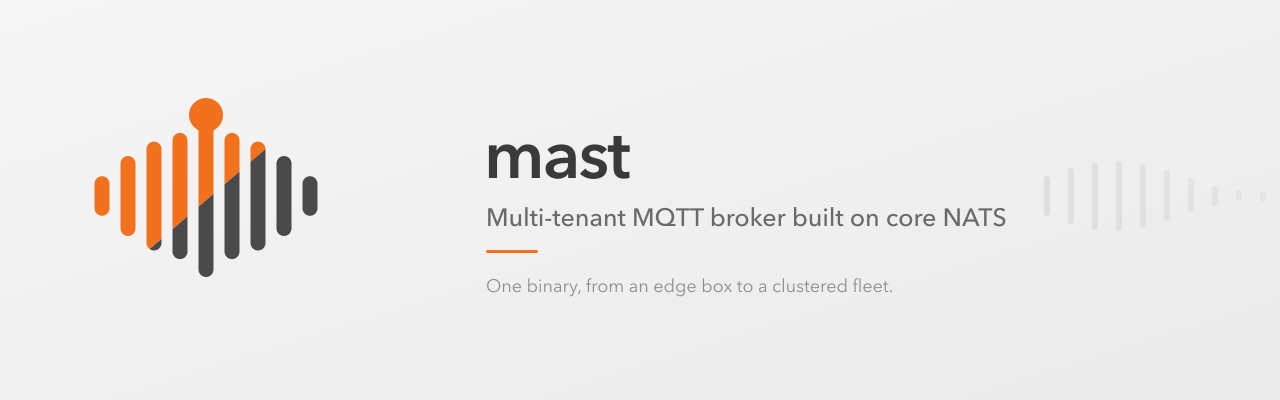
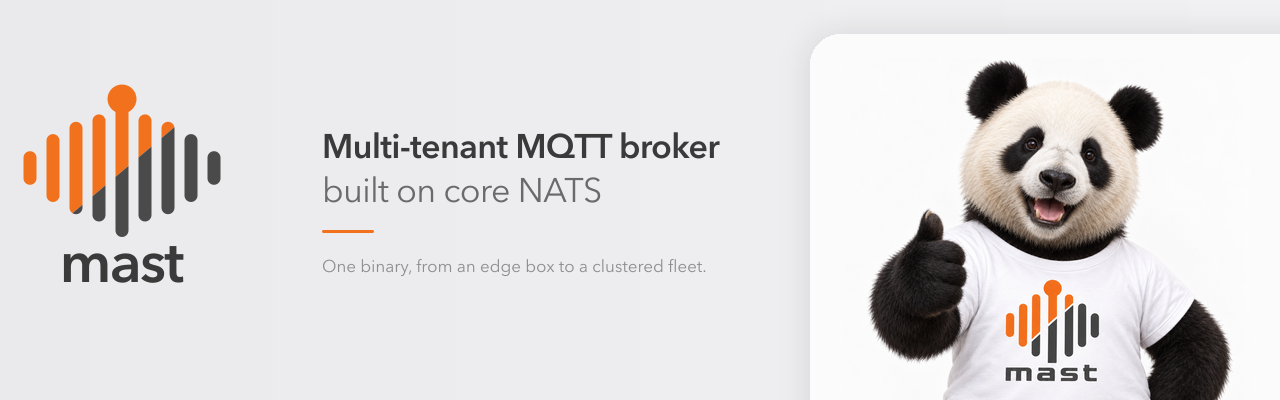
feat: a masthead with the mascot, and three layout bugs it uncovered
The page led with banner.png stretched across the column. That is an image
of text: soft at 860px, unable to reflow on a phone, unselectable, and
invisible to a screen reader beyond its alt. The masthead is now live HTML
in the banner's own language — the mark drawn as SVG, the wordmark and pitch
as text, the mascot beside them on a panel painted in its own backdrop
colour so the photograph joins it without a seam. The banner PNG stays as
the og:image, which is the one place an image of text is the right answer.

Three bugs surfaced while laying it out, all of them older than this change:

  - Section had no vertical padding at all. Section.astro renders <section
    class="wrap">, and .wrap's `padding: 0 16px` shorthand was zeroing the
    `section { padding: 40px 0 }` underneath it, a class quietly beating an
    element selector. .wrap now sets padding-inline, so the two rules stop
    overlapping.
  - Both cells of the mast row in the comparison table carried .yes, whose
    white-space: nowrap stretched the table past the viewport and gave the
    whole page a horizontal scrollbar. Only the broker name needs it.
  - A JSX line break between "The" and the parity-label link dropped the
    space between them.

The masthead and the sections below it also now share one container width,
which they did not when the hero was 1120px and the prose 860px.

Claude-Session: https://claude.ai/code/session_01CribtUZAUCnaabjApoTY9d

Changed region(s): [[0.0, 0.15, 0.9688, 1.0], [0.375, 0.6, 0.4062, 0.63]]

diff --git a/docs/index.html b/docs/index.html
@@ -1,5 +1,4 @@
-<!DOCTYPE html><html lang="en"><head><meta charset="utf-8"><meta name="viewport" content="width=device-width, initial-scale=1"><title>mast — multi-tenant MQTT broker on core NATS</title><meta name="description" content="An open-source multi-tenant MQTT broker built on core NATS. MQTT 5, shared subscriptions, tenant isolation, free clustering, no JVM, one binary."><link rel="icon" href="/assets/mark.png"><link rel="canonical" href="https://mastmq.github.io/"><meta property="og:title" content="mast — multi-tenant MQTT broker on core NATS"><meta property="og:description" content="An open-source multi-tenant MQTT broker built on core NATS. MQTT 5, shared subscriptions, tenant isolation, free clustering, no JVM, one binary."><meta property="og:image" content="https://mastmq.github.io/assets/banner.png"><meta property="og:url" content="https://mastmq.github.io/"><meta property="og:type" content="website"><meta name="twitter:card" content="summary_large_image"><style>:root{--orange:#f2711c;--charcoal:#4a4a4a;--ground:#f4f4f4;--ink:#1d1d1d;--muted:#5f5f5f;--rule:#e2e2e2;--card:#fff;--code-bg:#f7f7f7}:root:not([data-theme=light]){@media (prefers-color-scheme:dark){--ground:#17181a;--ink:#ececec;--muted:#a3a3a3;--rule:#2e3033;--card:#1e2023;--charcoal:#c9c9c9;--code-bg:#131416}}:root[data-theme=dark]{--ground:#17181a;--ink:#ececec;--muted:#a3a3a3;--rule:#2e3033;--card:#1e2023;--charcoal:#c9c9c9;--code-bg:#131416}*{box-sizing:border-box}body{background:var(--ground);color:var(--ink);-webkit-font-smoothing:antialiased;margin:0;font:16px/1.65 ui-sans-serif,system-ui,-apple-system,Segoe UI,Roboto,sans-serif}.wrap{max-width:860px;margin:0 auto;padding:0 16px}a{color:var(--orange);text-decoration:none}a:hover{text-decoration:underline}header{padding:64px 0 40px}.banner{border-radius:14px;width:100%;height:auto;margin-bottom:28px;display:block}.section-head{flex-wrap:wrap;align-items:baseline;gap:12px;display:flex}h1{letter-spacing:-.02em;margin:0 0 12px;font-size:clamp(2.2rem,6vw,3.2rem);line-height:1.05}.tagline{color:var(--muted);margin:0 0 24px;font-size:1.15rem}.badges{flex-wrap:wrap;gap:8px;margin-bottom:20px;display:flex}.badge{border:1px solid var(--rule);color:var(--muted);background:var(--card);border-radius:999px;padding:3px 10px;font-size:.78rem}.cta{flex-wrap:wrap;gap:12px;display:flex}.btn{border:1px solid var(--orange);border-radius:8px;padding:10px 18px;font-weight:600;display:inline-block}.btn-primary{background:var(--orange);color:#fff}.btn-primary:hover{filter:brightness(1.07);text-decoration:none}.btn-ghost{color:var(--orange);background:0 0}.btn-ghost:hover{background:color-mix(in srgb, var(--orange) 10%, transparent);text-decoration:none}section{border-top:1px solid var(--rule);padding:40px 0}h2{letter-spacing:-.01em;margin:0 0 8px;font-size:1.45rem}.lede{color:var(--muted);margin:0 0 24px}pre{background:var(--code-bg);border:1px solid var(--rule);border-radius:10px;padding:16px;font-size:.88rem;line-height:1.55;overflow-x:auto}code{font-family:ui-monospace,SFMono-Regular,Menlo,monospace}pre .c{color:var(--muted)}table{border-collapse:collapse;width:100%;font-size:.93rem}th,td{text-align:left;border-bottom:1px solid var(--rule);vertical-align:top;padding:10px 12px}th{color:var(--muted);text-transform:uppercase;letter-spacing:.04em;font-size:.82rem;font-weight:600}td.yes{color:var(--orange);font-weight:600}.cards{grid-template-columns:repeat(auto-fit,minmax(240px,1fr));gap:16px;display:grid}.card{background:var(--card);border:1px solid var(--rule);border-radius:12px;padding:18px 20px}.card h3{margin:0 0 6px;font-size:1rem}.card p{color:var(--muted);margin:0;font-size:.92rem}.note{border-left:3px solid var(--orange);color:var(--muted);margin:20px 0 0;padding:2px 0 2px 16px}footer{border-top:1px solid var(--rule);color:var(--muted);padding:40px 0 64px;font-size:.9rem}footer a{color:var(--muted);text-decoration:underline}@media (width<=560px){header{padding:40px 0 28px}.hero img{width:120px}.table-scroll{overflow-x:auto}}
-</style></head><body><header><div class="wrap"><picture><source media="(prefers-color-scheme: dark)" srcset="/assets/banner.png"><img class="banner" src="/assets/banner-light.png" alt="mast — multi-tenant mqtt broker built on core nats" width="1280" height="400"></picture><div class="badges"><span class="badge">MQTT 3.1.1 &amp; 5.0</span><span class="badge">Shared subscriptions</span><span class="badge">Apache 2.0</span><span class="badge">No JVM</span></div><div class="cta"><a class="btn btn-primary" href="https://github.com/mastmq/mast">Source</a><a class="btn btn-ghost" href="https://github.com/mastmq/docs/blob/main/guides/migrating-from-emqx.md">Migrating from EMQX</a></div></div></header><main><section class="wrap"><h2>Why it exists</h2><p class="lede">Every open-source MQTT broker that does real multi-tenancy makes you give something up.</p><div class="table-scroll"><table><thead><tr><th>Broker</th><th>The catch</th></tr></thead><tbody><tr><td>EMQX</td><td>Business Source License since 5.9 — clustering more than one node needs a paid licence key.</td></tr><tr><td>BifroMQ</td><td>Genuine native multi-tenancy, but it runs on the JVM.</td></tr><tr><td>VerneMQ</td><td>Apache 2.0 source, but the official packages and images are under a EULA that charges for commercial use.</td></tr><tr><td>RabbitMQ</td><td>vhosts, but no QoS 2 and no shared subscriptions.</td></tr><tr><td>Mosquitto, NanoMQ, FlashMQ, mochi</td><td>Do not cluster at all.</td></tr><tr><td class="yes">mast</td><td class="yes">MQTT 5 with shared subscriptions, tenant isolation with per-tenant limits, free clustering, no JVM, and a single binary you can run standalone at a customer site.</td></tr></tbody></table></div></section><section class="wrap"><h2>Run it</h2><p class="lede">No flags needed for the common case. The roles exist for when you outgrow it.</p><pre><code><span class="c"># all-in-one: MQTT and storage in one process, no cluster</span>
+<!DOCTYPE html><html lang="en"><head><meta charset="utf-8"><meta name="viewport" content="width=device-width, initial-scale=1"><title>mast — multi-tenant MQTT broker on core NATS</title><meta name="description" content="An open-source multi-tenant MQTT broker built on core NATS. MQTT 5, shared subscriptions, tenant isolation, free clustering, no JVM, one binary."><meta name="theme-color" content="#17181a"><link rel="icon" href="/assets/mark.png"><link rel="canonical" href="https://mastmq.github.io/"><meta property="og:title" content="mast — multi-tenant MQTT broker on core NATS"><meta property="og:description" content="An open-source multi-tenant MQTT broker built on core NATS. MQTT 5, shared subscriptions, tenant isolation, free clustering, no JVM, one binary."><meta property="og:image" content="https://mastmq.github.io/assets/banner.png"><meta property="og:url" content="https://mastmq.github.io/"><meta property="og:type" content="website"><meta name="twitter:card" content="summary_large_image"><link rel="stylesheet" href="/_astro/index.eMWIsspo.css"></head><body><header class="hero"><div class="hero-glow" aria-hidden="true"></div><nav class="hero-nav wrap-wide"><a class="hero-nav-brand" href="/"><svg viewBox="0 0 197 162" width="34" height="27.95939086294416" role="img" aria-label="mast" class="mark"><defs><clipPath id="nav-hot"><polygon points="-28,198 233,-22 233,-220 -28,-220"></polygon></clipPath><clipPath id="nav-cool"><polygon points="-28,198 233,-22 233,380 -28,380"></polygon></clipPath><g id="nav-bars"><rect x="0" y="71.19999999999999" width="13" height="33.60000000000001" rx="6.5"></rect><rect x="23" y="54.05" width="13" height="67.9" rx="6.5"></rect><rect x="46" y="41.800000000000004" width="13" height="92.39999999999999" rx="6.5"></rect><rect x="69" y="34.449999999999996" width="13" height="107.10000000000001" rx="6.5"></rect><rect x="92" y="19" width="13" height="138" rx="6.5"></rect><rect x="115" y="34.449999999999996" width="13" height="107.10000000000001" rx="6.5"></rect><rect x="138" y="41.800000000000004" width="13" height="92.39999999999999" rx="6.5"></rect><rect x="161" y="54.05" width="13" height="67.9" rx="6.5"></rect><rect x="184" y="71.19999999999999" width="13" height="33.60000000000001" rx="6.5"></rect></g></defs><use href="#nav-bars" clip-path="url(#nav-hot)" class="mark-hot"></use><use href="#nav-bars" clip-path="url(#nav-cool)" class="mark-cool"></use><circle cx="98.5" cy="19" r="14.5" class="mark-hot"></circle></svg><span>mast</span></a><div class="hero-nav-links"><a href="https://github.com/mastmq/docs/blob/main/guides/migrating-from-emqx.md">Migrating from EMQX</a><a href="https://github.com/mastmq">Organization</a><a href="https://github.com/mastmq/mast">GitHub</a></div></nav><div class="hero-body wrap-wide"><div class="hero-text"><svg viewBox="0 0 197 162" width="128" height="105.25888324873097" role="img" aria-label="mast" class="mark"><defs><clipPath id="hero-hot"><polygon points="-28,198 233,-22 233,-220 -28,-220"></polygon></clipPath><clipPath id="hero-cool"><polygon points="-28,198 233,-22 233,380 -28,380"></polygon></clipPath><g id="hero-bars"><rect x="0" y="71.19999999999999" width="13" height="33.60000000000001" rx="6.5"></rect><rect x="23" y="54.05" width="13" height="67.9" rx="6.5"></rect><rect x="46" y="41.800000000000004" width="13" height="92.39999999999999" rx="6.5"></rect><rect x="69" y="34.449999999999996" width="13" height="107.10000000000001" rx="6.5"></rect><rect x="92" y="19" width="13" height="138" rx="6.5"></rect><rect x="115" y="34.449999999999996" width="13" height="107.10000000000001" rx="6.5"></rect><rect x="138" y="41.800000000000004" width="13" height="92.39999999999999" rx="6.5"></rect><rect x="161" y="54.05" width="13" height="67.9" rx="6.5"></rect><rect x="184" y="71.19999999999999" width="13" height="33.60000000000001" rx="6.5"></rect></g></defs><use href="#hero-bars" clip-path="url(#hero-hot)" class="mark-hot"></use><use href="#hero-bars" clip-path="url(#hero-cool)" class="mark-cool"></use><circle cx="98.5" cy="19" r="14.5" class="mark-hot"></circle></svg><h1>mast</h1><p class="hero-tagline">Multi-tenant MQTT broker built on core NATS</p><p class="hero-blurb">One binary, from an edge box to a clustered fleet.</p><div class="badges"><span class="badge">MQTT 3.1.1 &amp; 5.0</span><span class="badge">Shared subscriptions</span><span class="badge">Apache 2.0</span><span class="badge">No JVM</span></div><div class="cta"><a class="btn btn-primary" href="https://github.com/mastmq/mast">Source</a><a class="btn btn-ghost" href="https://github.com/mastmq/docs/blob/main/guides/migrating-from-emqx.md">Migrating from EMQX</a></div></div><div class="hero-mascot" aria-hidden="true"><img src="/assets/mascot.png" alt="" width="1254" height="1254" loading="eager"></div></div></header><main><section class="wrap"><h2>Why it exists</h2><p class="lede">Every open-source MQTT broker that does real multi-tenancy makes you give something up.</p><div class="table-scroll"><table><thead><tr><th>Broker</th><th>The catch</th></tr></thead><tbody><tr><td>EMQX</td><td>Business Source License since 5.9 — clustering more than one node needs a paid licence key.</td></tr><tr><td>BifroMQ</td><td>Genuine native multi-tenancy, but it runs on the JVM.</td></tr><tr><td>VerneMQ</td><td>Apache 2.0 source, but the official packages and images are under a EULA that charges for commercial use.</td></tr><tr><td>RabbitMQ</td><td>vhosts, but no QoS 2 and no shared subscriptions.</td></tr><tr><td>Mosquitto, NanoMQ, FlashMQ, mochi</td><td>Do not cluster at all.</td></tr><tr class="mast-row"><td class="yes">mast</td><td>MQTT 5 with shared subscriptions, tenant isolation with per-tenant limits, free clustering, no JVM, and a single binary you can run standalone at a customer site.</td></tr></tbody></table></div></section><section class="wrap"><h2>Run it</h2><p class="lede">No flags needed for the common case. The roles exist for when you outgrow it.</p><pre><code><span class="c"># all-in-one: MQTT and storage in one process, no cluster</span>
 mast
 
 <span class="c"># or split the tiers once the MQTT side needs to scale</span>
@@ -14,4 +13,4 @@ wire = "emqx"          <span class="c"># EMQX's request and response shape</span
 authn_url = "http://soteria:9999/v2/auth"
 authz_url = "http://soteria:9999/v2/acl"
 on_error = "deny"      <span class="c"># EMQX_AUTHORIZATION__NO_MATCH</span>
-</code></pre><p class="note">Topics reach the authorization endpoint unmounted, so existing ACL rules keep working. The <a href="https://github.com/mastmq/docs/blob/main/guides/migrating-from-emqx.md">migration guide</a> has the full mapping and the four traps that actually fired doing it — <code>is_superuser</code>, multipath TCP on OpenShift, Helm's map merging, and SCC uid ranges.</p></section><section class="wrap"><h2>Where the project is</h2><p class="lede">Early, and honest about it. The broker runs, moves messages across a cluster with tenant isolation, honours QoS 0 through 2, replays retained messages, resumes persistent sessions and delivers wills.</p><p>Gaps are tracked as issues rather than described as a roadmap. The<a href="https://github.com/mastmq/mast/issues?q=is%3Aissue+is%3Aopen+label%3Aparity">parity label</a> is what an MQTT client is entitled to assume and does not yet get. There is no dashboard and no management API, and no plan for a rule engine or data bridges.</p><div class="cards" style="margin-top:20px"><div class="card"><h3><a href="https://github.com/mastmq/mast">mast</a></h3><p>The broker.</p></div><div class="card"><h3><a href="https://github.com/mastmq/charts">charts</a></h3><p>Helm charts.</p></div><div class="card"><h3><a href="https://github.com/mastmq/docs">docs</a></h3><p>Architecture notes and operational guides.</p></div><div class="card"><h3><a href="https://github.com/mastmq/bench">bench</a></h3><p>Load and latency benchmarks.</p></div></div></section></main><footer><div class="wrap">Apache 2.0 &middot; <a href="https://github.com/mastmq">github.com/mastmq</a></div></footer></body></html>
+</code></pre><p class="note">Topics reach the authorization endpoint unmounted, so existing ACL rules keep working. The <a href="https://github.com/mastmq/docs/blob/main/guides/migrating-from-emqx.md">migration guide</a> has the full mapping and the four traps that actually fired doing it — <code>is_superuser</code>, multipath TCP on OpenShift, Helm's map merging, and SCC uid ranges.</p></section><section class="wrap"><h2>Where the project is</h2><p class="lede">Early, and honest about it. The broker runs, moves messages across a cluster with tenant isolation, honours QoS 0 through 2, replays retained messages, resumes persistent sessions and delivers wills.</p><p>Gaps are tracked as issues rather than described as a roadmap. The <a href="https://github.com/mastmq/mast/issues?q=is%3Aissue+is%3Aopen+label%3Aparity">parity label</a> is what an MQTT client is entitled to assume and does not yet get. There is no dashboard and no management API, and no plan for a rule engine or data bridges.</p><div class="cards" style="margin-top:20px"><div class="card"><h3><a href="https://github.com/mastmq/mast">mast</a></h3><p>The broker.</p></div><div class="card"><h3><a href="https://github.com/mastmq/charts">charts</a></h3><p>Helm charts.</p></div><div class="card"><h3><a href="https://github.com/mastmq/docs">docs</a></h3><p>Architecture notes and operational guides.</p></div><div class="card"><h3><a href="https://github.com/mastmq/bench">bench</a></h3><p>Load and latency benchmarks.</p></div></div></section></main><footer><div class="wrap-wide footer-row"><a class="footer-brand" href="/"><svg viewBox="0 0 197 162" width="30" height="24.670050761421322" role="img" aria-label="mast" class="mark"><defs><clipPath id="foot-hot"><polygon points="-28,198 233,-22 233,-220 -28,-220"></polygon></clipPath><clipPath id="foot-cool"><polygon points="-28,198 233,-22 233,380 -28,380"></polygon></clipPath><g id="foot-bars"><rect x="0" y="71.19999999999999" width="13" height="33.60000000000001" rx="6.5"></rect><rect x="23" y="54.05" width="13" height="67.9" rx="6.5"></rect><rect x="46" y="41.800000000000004" width="13" height="92.39999999999999" rx="6.5"></rect><rect x="69" y="34.449999999999996" width="13" height="107.10000000000001" rx="6.5"></rect><rect x="92" y="19" width="13" height="138" rx="6.5"></rect><rect x="115" y="34.449999999999996" width="13" height="107.10000000000001" rx="6.5"></rect><rect x="138" y="41.800000000000004" width="13" height="92.39999999999999" rx="6.5"></rect><rect x="161" y="54.05" width="13" height="67.9" rx="6.5"></rect><rect x="184" y="71.19999999999999" width="13" height="33.60000000000001" rx="6.5"></rect></g></defs><use href="#foot-bars" clip-path="url(#foot-hot)" class="mark-hot"></use><use href="#foot-bars" clip-path="url(#foot-cool)" class="mark-cool"></use><circle cx="98.5" cy="19" r="14.5" class="mark-hot"></circle></svg><span>mast</span></a><div class="footer-links"><a href="https://github.com/mastmq/mast">mast</a><a href="https://github.com/mastmq/charts">charts</a><a href="https://github.com/mastmq/docs">docs</a><a href="https://github.com/mastmq/bench">bench</a><a href="https://github.com/mastmq">Organization</a></div><div>Apache 2.0</div></div></footer></body></html>

diff --git a/src/styles/global.css b/src/styles/global.css
@@ -9,6 +9,16 @@
   --rule: #e2e2e2;
   --card: #ffffff;
   --code-bg: #f7f7f7;
+
+  /* The masthead is dark under both schemes, so its colours are fixed
+     rather than themed. The mascot's own backdrop, measured from the file,
+     is what the panel behind it is painted with. */
+  --hero-from: #26272b;
+  --hero-to: #141517;
+  --hero-ink: #ffffff;
+  --hero-muted: #c9cbd0;
+  --hero-faint: #8a8d93;
+  --hero-panel: #fbfbfb;
 }
 
 :root:not([data-theme="light"]) {
@@ -43,71 +53,195 @@ body {
   -webkit-font-smoothing: antialiased;
 }
 
-.wrap { max-width: 860px; margin: 0 auto; padding: 0 16px; }
+/* One container width for the whole page. The masthead and the sections
+   under it share a left edge, which they did not when the hero was wider
+   than the prose column. Prose is kept readable by a max-width on the text
+   itself; tables and card grids are free to use the full width. */
+/* padding-inline, not the padding shorthand: Section renders <section
+   class="wrap">, and a shorthand here silently zeroed the section's own
+   vertical padding, which is a class beating an element selector. */
+.wrap, .wrap-wide { max-width: 1060px; margin-inline: auto; padding-inline: 24px; }
 
 a { color: var(--orange); text-decoration: none; }
 a:hover { text-decoration: underline; }
 
-header { padding: 64px 0 40px; }
+/* The mark takes its two tones from whatever it sits on. */
+.mark-hot { fill: var(--orange); }
+.mark-cool { fill: var(--charcoal); }
+.hero .mark-cool { fill: #e8e9ec; }
 
-.banner { width: 100%; height: auto; border-radius: 14px; display: block; margin-bottom: 28px; }
-.section-head { display: flex; align-items: baseline; gap: 12px; flex-wrap: wrap; }
+/* ── Masthead ───────────────────────────────────────────────────────── */
 
-h1 {
-  font-size: clamp(2.2rem, 6vw, 3.2rem);
-  line-height: 1.05;
-  margin: 0 0 12px;
-  letter-spacing: -0.02em;
+.hero {
+  position: relative;
+  overflow: hidden;
+  background: linear-gradient(100deg, var(--hero-from), var(--hero-to));
+  color: var(--hero-ink);
+  isolation: isolate;
 }
 
-.tagline { font-size: 1.15rem; color: var(--muted); margin: 0 0 24px; }
+.hero-glow {
+  position: absolute;
+  left: -8%;
+  top: -22%;
+  width: 46rem;
+  height: 40rem;
+  background: radial-gradient(closest-side, rgb(242 113 28 / 0.22), transparent);
+  pointer-events: none;
+  z-index: -1;
+}
 
-.badges { display: flex; gap: 8px; flex-wrap: wrap; margin-bottom: 20px; }
+.hero-nav {
+  display: flex;
+  align-items: center;
+  justify-content: space-between;
+  gap: 16px;
+  padding-top: 20px;
+  padding-bottom: 4px;
+  flex-wrap: wrap;
+}
+
+.hero-nav-brand {
+  display: inline-flex;
+  align-items: center;
+  gap: 9px;
+  color: var(--hero-ink);
+  font-weight: 600;
+  letter-spacing: -0.02em;
+  font-size: 1.05rem;
+}
+.hero-nav-brand:hover { text-decoration: none; }
+
+.hero-nav-links { display: flex; gap: 22px; flex-wrap: wrap; font-size: 0.92rem; }
+.hero-nav-links a { color: var(--hero-muted); }
+.hero-nav-links a:hover { color: var(--hero-ink); text-decoration: none; }
+
+.hero-body {
+  display: grid;
+  grid-template-columns: minmax(0, 1fr) minmax(0, 0.78fr);
+  align-items: end;
+  gap: 40px;
+  padding-top: 36px;
+}
+
+.hero-text { padding-bottom: 64px; }
+
+.hero h1 {
+  font-size: clamp(3rem, 8vw, 4.4rem);
+  line-height: 1;
+  margin: 14px 0 10px;
+  letter-spacing: -0.045em;
+  font-weight: 600;
+}
+
+.hero-tagline {
+  font-size: clamp(1.25rem, 3.2vw, 1.75rem);
+  line-height: 1.25;
+  letter-spacing: -0.02em;
+  color: var(--hero-ink);
+  margin: 0 0 10px;
+  max-width: 26ch;
+}
+
+/* The rule above the blurb is a pseudo-element rather than a border so it
+   stays 52px wide whatever the text does. */
+.hero-blurb {
+  color: var(--hero-faint);
+  margin: 0 0 22px;
+  max-width: 34ch;
+}
+.hero-blurb::before {
+  content: "";
+  display: block;
+  width: 52px;
+  height: 3px;
+  border-radius: 2px;
+  background: var(--orange);
+  margin-bottom: 16px;
+}
+
+/* The panel is the mascot's own backdrop colour, so the photograph joins it
+   without a seam. It bleeds off the bottom of the masthead: a figure with
+   air underneath reads as pasted in. */
+.hero-mascot {
+  align-self: end;
+  margin-bottom: -1px;
+  background: var(--hero-panel);
+  border-radius: 26px 26px 0 0;
+  box-shadow: 0 -2px 44px rgb(0 0 0 / 0.4);
+  overflow: hidden;
+}
+.hero-mascot img { display: block; width: 100%; height: auto; margin-bottom: -7%; }
+
+.badges { display: flex; gap: 8px; flex-wrap: wrap; margin-bottom: 22px; }
 .badge {
   font-size: 0.78rem;
-  padding: 3px 10px;
-  border: 1px solid var(--rule);
+  padding: 3px 11px;
+  border: 1px solid rgb(255 255 255 / 0.2);
   border-radius: 999px;
-  color: var(--muted);
-  background: var(--card);
+  color: var(--hero-muted);
+  background: rgb(255 255 255 / 0.05);
 }
 
 .cta { display: flex; gap: 12px; flex-wrap: wrap; }
 .btn {
   display: inline-block;
-  padding: 10px 18px;
-  border-radius: 8px;
+  padding: 11px 20px;
+  border-radius: 9px;
   font-weight: 600;
   border: 1px solid var(--orange);
 }
 .btn-primary { background: var(--orange); color: #fff; }
-.btn-primary:hover { text-decoration: none; filter: brightness(1.07); }
+.btn-primary:hover { text-decoration: none; filter: brightness(1.08); }
 .btn-ghost { color: var(--orange); background: transparent; }
-.btn-ghost:hover { text-decoration: none; background: color-mix(in srgb, var(--orange) 10%, transparent); }
+.btn-ghost:hover { text-decoration: none; background: rgb(242 113 28 / 0.12); }
 
-section { padding: 40px 0; border-top: 1px solid var(--rule); }
-h2 { font-size: 1.45rem; margin: 0 0 8px; letter-spacing: -0.01em; }
+/* ── Body ───────────────────────────────────────────────────────────── */
+
+section { padding: 48px 0; border-top: 1px solid var(--rule); }
+main > section:first-child { border-top: none; }
+
+h2 { font-size: 1.5rem; margin: 0 0 8px; letter-spacing: -0.02em; }
 .lede { color: var(--muted); margin: 0 0 24px; }
+main p, main .lede { max-width: 68ch; }
+main pre { max-width: 80ch; }
 
 pre {
   background: var(--code-bg);
   border: 1px solid var(--rule);
-  border-radius: 10px;
-  padding: 16px;
+  border-radius: 12px;
+  padding: 18px;
   overflow-x: auto;
   font-size: 0.88rem;
-  line-height: 1.55;
+  line-height: 1.6;
 }
 code { font-family: ui-monospace, SFMono-Regular, Menlo, monospace; }
 pre .c { color: var(--muted); }
 
 table { width: 100%; border-collapse: collapse; font-size: 0.93rem; }
-th, td { text-align: left; padding: 10px 12px; border-bottom: 1px solid var(--rule); vertical-align: top; }
-th { font-weight: 600; color: var(--muted); font-size: 0.82rem; text-transform: uppercase; letter-spacing: 0.04em; }
+th, td { text-align: left; padding: 11px 12px; border-bottom: 1px solid var(--rule); vertical-align: top; }
+th { font-weight: 600; color: var(--muted); font-size: 0.78rem; text-transform: uppercase; letter-spacing: 0.06em; }
+tr.mast-row td { background: rgb(242 113 28 / 0.07); border-bottom: none; }
+tr.mast-row td:first-child { border-radius: 8px 0 0 8px; white-space: nowrap; }
+tr.mast-row td:last-child { border-radius: 0 8px 8px 0; }
 td.yes { color: var(--orange); font-weight: 600; }
 
-.cards { display: grid; grid-template-columns: repeat(auto-fit, minmax(240px, 1fr)); gap: 16px; }
-.card { background: var(--card); border: 1px solid var(--rule); border-radius: 12px; padding: 18px 20px; }
+/* The table is the one block that can outgrow the column, so it scrolls at
+   every width rather than only on a phone. */
+.table-scroll { overflow-x: auto; }
+
+/* min() so the track collapses on a phone instead of forcing a scroll. At
+   full width this lands on two columns, which keeps four cards as a block
+   rather than three and an orphan. */
+.cards { display: grid; grid-template-columns: repeat(auto-fit, minmax(min(100%, 330px), 1fr)); gap: 16px; }
+.card {
+  background: var(--card);
+  border: 1px solid var(--rule);
+  border-radius: 14px;
+  padding: 20px 22px;
+  transition: border-color 0.15s ease, transform 0.15s ease;
+}
+.card:hover { border-color: color-mix(in srgb, var(--orange) 55%, var(--rule)); transform: translateY(-2px); }
 .card h3 { margin: 0 0 6px; font-size: 1rem; }
 .card p { margin: 0; color: var(--muted); font-size: 0.92rem; }
 
@@ -115,14 +249,22 @@ td.yes { color: var(--orange); font-weight: 600; }
   border-left: 3px solid var(--orange);
   padding: 2px 0 2px 16px;
   color: var(--muted);
-  margin: 20px 0 0;
+  margin: 22px 0 0;
 }
 
-footer { padding: 40px 0 64px; border-top: 1px solid var(--rule); color: var(--muted); font-size: 0.9rem; }
-footer a { color: var(--muted); text-decoration: underline; }
+/* ── Footer ─────────────────────────────────────────────────────────── */
 
-@media (max-width: 560px) {
-  header { padding: 40px 0 28px; }
-  .hero img { width: 120px; }
-  .table-scroll { overflow-x: auto; }
+footer { border-top: 1px solid var(--rule); padding: 36px 0 64px; color: var(--muted); font-size: 0.9rem; }
+.footer-row { display: flex; align-items: center; justify-content: space-between; gap: 16px; flex-wrap: wrap; }
+.footer-brand { display: inline-flex; align-items: center; gap: 9px; color: var(--ink); font-weight: 600; }
+.footer-brand:hover { text-decoration: none; }
+footer a { color: var(--muted); }
+.footer-links { display: flex; gap: 20px; flex-wrap: wrap; }
+
+@media (max-width: 860px) {
+  .hero-body { grid-template-columns: 1fr; align-items: start; padding-top: 30px; }
+  .hero-text { padding-bottom: 12px; }
+  .hero-mascot { max-width: 320px; margin: 0 auto -1px; }
+  .hero-nav-links { display: none; }
+  section { padding: 36px 0; }
 }

diff --git a/docs/_astro/index.eMWIsspo.css b/docs/_astro/index.eMWIsspo.css
@@ -1,0 +1,1 @@
+:root{--orange:#f2711c;--charcoal:#4a4a4a;--ground:#f4f4f4;--ink:#1d1d1d;--muted:#5f5f5f;--rule:#e2e2e2;--card:#fff;--code-bg:#f7f7f7;--hero-from:#26272b;--hero-to:#141517;--hero-ink:#fff;--hero-muted:#c9cbd0;--hero-faint:#8a8d93;--hero-panel:#fbfbfb}:root:not([data-theme=light]){@media (prefers-color-scheme:dark){--ground:#17181a;--ink:#ececec;--muted:#a3a3a3;--rule:#2e3033;--card:#1e2023;--charcoal:#c9c9c9;--code-bg:#131416}}:root[data-theme=dark]{--ground:#17181a;--ink:#ececec;--muted:#a3a3a3;--rule:#2e3033;--card:#1e2023;--charcoal:#c9c9c9;--code-bg:#131416}*{box-sizing:border-box}body{background:var(--ground);color:var(--ink);-webkit-font-smoothing:antialiased;margin:0;font:16px/1.65 ui-sans-serif,system-ui,-apple-system,Segoe UI,Roboto,sans-serif}.wrap,.wrap-wide{max-width:1060px;margin-inline:auto;padding-inline:24px}a{color:var(--orange);text-decoration:none}a:hover{text-decoration:underline}.mark-hot{fill:var(--orange)}.mark-cool{fill:var(--charcoal)}.hero .mark-cool{fill:#e8e9ec}.hero{background:linear-gradient(100deg, var(--hero-from), var(--hero-to));color:var(--hero-ink);isolation:isolate;position:relative;overflow:hidden}.hero-glow{pointer-events:none;z-index:-1;background:radial-gradient(closest-side,#f2711c38,#0000);width:46rem;height:40rem;position:absolute;top:-22%;left:-8%}.hero-nav{flex-wrap:wrap;justify-content:space-between;align-items:center;gap:16px;padding-top:20px;padding-bottom:4px;display:flex}.hero-nav-brand{color:var(--hero-ink);letter-spacing:-.02em;align-items:center;gap:9px;font-size:1.05rem;font-weight:600;display:inline-flex}.hero-nav-brand:hover{text-decoration:none}.hero-nav-links{flex-wrap:wrap;gap:22px;font-size:.92rem;display:flex}.hero-nav-links a{color:var(--hero-muted)}.hero-nav-links a:hover{color:var(--hero-ink);text-decoration:none}.hero-body{grid-template-columns:minmax(0,1fr) minmax(0,.78fr);align-items:end;gap:40px;padding-top:36px;display:grid}.hero-text{padding-bottom:64px}.hero h1{letter-spacing:-.045em;margin:14px 0 10px;font-size:clamp(3rem,8vw,4.4rem);font-weight:600;line-height:1}.hero-tagline{letter-spacing:-.02em;color:var(--hero-ink);max-width:26ch;margin:0 0 10px;font-size:clamp(1.25rem,3.2vw,1.75rem);line-height:1.25}.hero-blurb{color:var(--hero-faint);max-width:34ch;margin:0 0 22px}.hero-blurb:before{content:"";background:var(--orange);border-radius:2px;width:52px;height:3px;margin-bottom:16px;display:block}.hero-mascot{background:var(--hero-panel);border-radius:26px 26px 0 0;align-self:end;margin-bottom:-1px;overflow:hidden;box-shadow:0 -2px 44px #0006}.hero-mascot img{width:100%;height:auto;margin-bottom:-7%;display:block}.badges{flex-wrap:wrap;gap:8px;margin-bottom:22px;display:flex}.badge{color:var(--hero-muted);background:#ffffff0d;border:1px solid #fff3;border-radius:999px;padding:3px 11px;font-size:.78rem}.cta{flex-wrap:wrap;gap:12px;display:flex}.btn{border:1px solid var(--orange);border-radius:9px;padding:11px 20px;font-weight:600;display:inline-block}.btn-primary{background:var(--orange);color:#fff}.btn-primary:hover{filter:brightness(1.08);text-decoration:none}.btn-ghost{color:var(--orange);background:0 0}.btn-ghost:hover{background:#f2711c1f;text-decoration:none}section{border-top:1px solid var(--rule);padding:48px 0}main>section:first-child{border-top:none}h2{letter-spacing:-.02em;margin:0 0 8px;font-size:1.5rem}.lede{color:var(--muted);margin:0 0 24px}main p,main .lede{max-width:68ch}main pre{max-width:80ch}pre{background:var(--code-bg);border:1px solid var(--rule);border-radius:12px;padding:18px;font-size:.88rem;line-height:1.6;overflow-x:auto}code{font-family:ui-monospace,SFMono-Regular,Menlo,monospace}pre .c{color:var(--muted)}table{border-collapse:collapse;width:100%;font-size:.93rem}th,td{text-align:left;border-bottom:1px solid var(--rule);vertical-align:top;padding:11px 12px}th{color:var(--muted);text-transform:uppercase;letter-spacing:.06em;font-size:.78rem;font-weight:600}tr.mast-row td{background:#f2711c12;border-bottom:none}tr.mast-row td:first-child{white-space:nowrap;border-radius:8px 0 0 8px}tr.mast-row td:last-child{border-radius:0 8px 8px 0}td.yes{color:var(--orange);font-weight:600}.table-scroll{overflow-x:auto}.cards{grid-template-columns:repeat(auto-fit,minmax(min(100%,330px),1fr));gap:16px;display:grid}.card{background:var(--card);border:1px solid var(--rule);border-radius:14px;padding:20px 22px;transition:border-color .15s,transform .15s}.card:hover{border-color:color-mix(in srgb, var(--orange) 55%, var(--rule));transform:translateY(-2px)}.card h3{margin:0 0 6px;font-size:1rem}.card p{color:var(--muted);margin:0;font-size:.92rem}.note{border-left:3px solid var(--orange);color:var(--muted);margin:22px 0 0;padding:2px 0 2px 16px}footer{border-top:1px solid var(--rule);color:var(--muted);padding:36px 0 64px;font-size:.9rem}.footer-row{flex-wrap:wrap;justify-content:space-between;align-items:center;gap:16px;display:flex}.footer-brand{color:var(--ink);align-items:center;gap:9px;font-weight:600;display:inline-flex}.footer-brand:hover{text-decoration:none}footer a{color:var(--muted)}.footer-links{flex-wrap:wrap;gap:20px;display:flex}@media (width<=860px){.hero-body{grid-template-columns:1fr;align-items:start;padding-top:30px}.hero-text{padding-bottom:12px}.hero-mascot{max-width:320px;margin:0 auto -1px}.hero-nav-links{display:none}section{padding:36px 0}}
